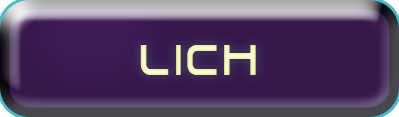
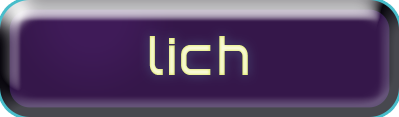
Button placeholders

Changed region(s): [[0.3308, 0.3077, 0.6617, 0.641]]

diff --git a/AIQuest/Assets/Scripts/OnGameExecute.cs b/AIQuest/Assets/Scripts/OnGameExecute.cs
@@ -10,12 +10,15 @@ public class OnGameExecute : MonoBehaviour
 
 	void OnGUI()
 	{
+		GUIStyle buttonStyle = new GUIStyle ();
 		Texture startTex = (Texture)Resources.Load ("orcbutton");
+		Texture creditTex = (Texture)Resources.Load ("lichbutton");
+		Texture exitTex = (Texture)Resources.Load ("dragonbutton");
 
 		Rect windowRect = new Rect(Screen.width/2-100, Screen.height/2-60, 200, 120);
 		//GUI enabled causes button to disable/enable
 		GUI.enabled = startEnabled;
-		if (GUI.Button (new Rect (Screen.width/2-40, Screen.height/2-30, 80, 20), startTex)) 
+		if (GUI.Button (new Rect (Screen.width/2-40, Screen.height/2-75, 150, 50), startTex, buttonStyle)) 
 		{
 			startEnabled = false;
 			creditsEnabled = false;
@@ -25,7 +28,7 @@ public class OnGameExecute : MonoBehaviour
 
 		//GUI enabled causes button to disable/enable
 		GUI.enabled = creditsEnabled;
-		if (GUI.Button (new Rect (Screen.width / 2 - 40, Screen.height / 2, 80, 20), "Credits")) 
+		if (GUI.Button (new Rect (Screen.width / 2 - 40, Screen.height / 2, 150, 50), creditTex, buttonStyle)) 
 		{
 			startEnabled = false;
 			creditsEnabled = false;
@@ -35,7 +38,7 @@ public class OnGameExecute : MonoBehaviour
 
 		//GUI enabled causes button to disable/enable
 		GUI.enabled = exitEnabled;
-		if (GUI.Button (new Rect (Screen.width/2-40, Screen.height/2+30, 80, 20), "Quit")) 
+		if (GUI.Button (new Rect (Screen.width/2-40, Screen.height/2+75, 150, 50), exitTex, buttonStyle)) 
 		{
 			//ExitGame to true for Window Pop-up
 			ExitGame = true;

diff --git a/AIQuest/Assets/Scripts/OnStartExecute.cs b/AIQuest/Assets/Scripts/OnStartExecute.cs
@@ -6,7 +6,6 @@ public class OnStartExecute : MonoBehaviour
 	private bool story1 = true;
 	private bool story2 = false;
 	private bool story3 = false;
-	private bool story4 = false;
 
 	void OnGUI()
 	{
